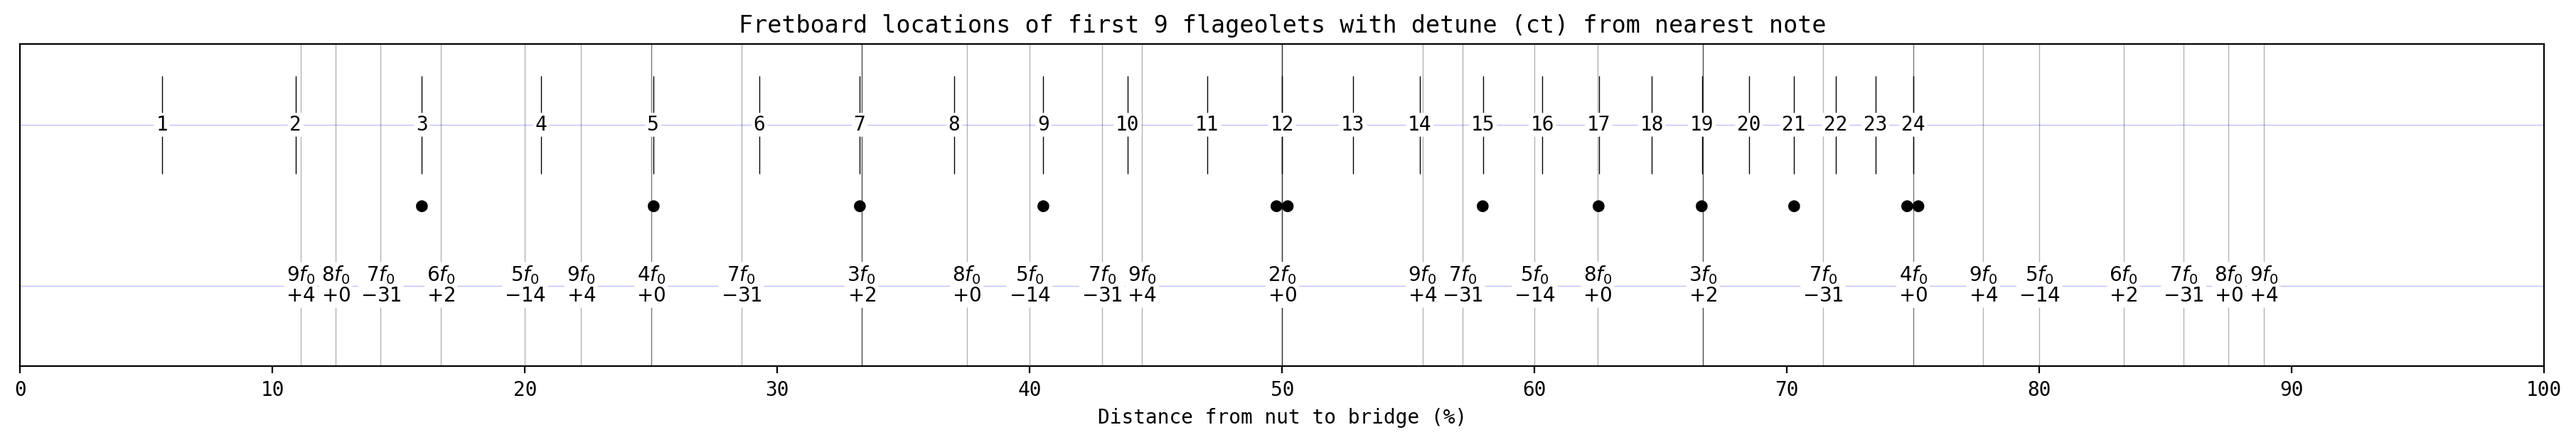
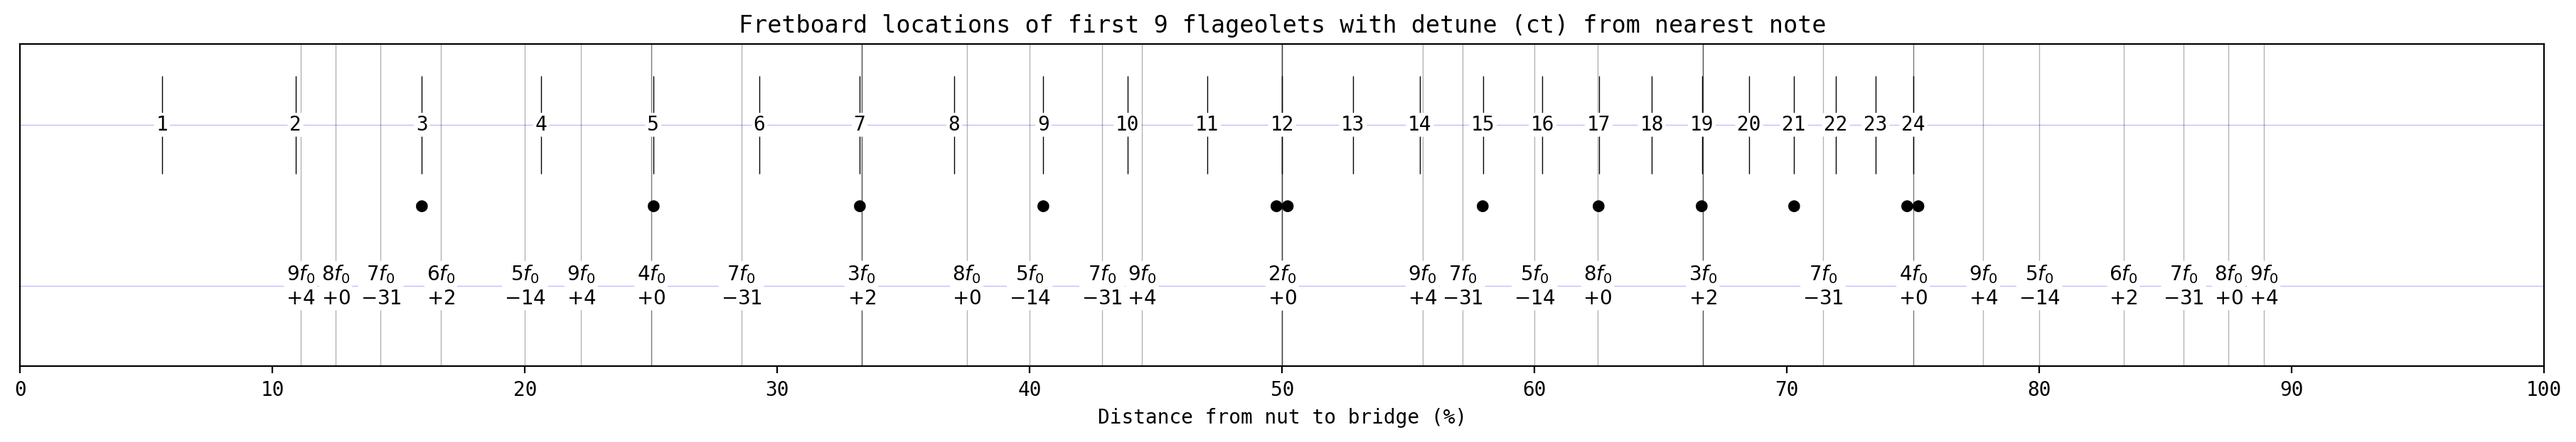
Format, add pitch class table

diff --git a/main.py b/main.py
@@ -3,69 +3,111 @@ import matplotlib.ticker as ticker
 import numpy as np
 import math
 
+PITCH_CLASS_TABLE = ["C", "C#", "D", "D#", "E", "F", "F#", "G", "G#", "A", "A#", "B"]
+
 # Distance from nut to bridge in %.
 scale_length = 100
 # Number of frets to show.
 frets = np.arange(1, 25)
 # Harmonics to show nodes of.
 harmonics = [2, 3, 4, 5, 6, 7, 8, 9]
+# Root note of string.
+root_note = 0
+
 
 def main():
-  plt.rc('font', size=10)
-  plt.rc('font', family="monospace")
+    plt.rc("font", size=10)
+    plt.rc("font", family="monospace")
 
-  _, ax = plt.subplots(figsize=(18, 3), layout="constrained")
+    _, ax = plt.subplots(figsize=(18, 3), layout="constrained")
 
-  # Figure styling.
-  ax.axhline(1, alpha=0.25, color="blue", linewidth=0.5)
-  ax.axhline(0, alpha=0.25, color="blue", linewidth=0.5)
-  ax.set_xlim([0, scale_length])
-  ax.xaxis.set_major_locator(ticker.MultipleLocator(10))
-  ax.set_ylim([-0.5, 1.5])
-  ax.set_xlabel("Distance from nut to bridge (%)")
-  ax.get_yaxis().set_visible(False)
-  bbox_style = dict(facecolor='white', edgecolor='none', boxstyle='round, pad=0.1')
+    # Figure styling.
+    ax.axhline(1, alpha=0.25, color="blue", linewidth=0.5)
+    ax.axhline(0, alpha=0.25, color="blue", linewidth=0.5)
+    ax.set_xlim([0, scale_length])
+    ax.xaxis.set_major_locator(ticker.MultipleLocator(10))
+    ax.set_ylim([-0.5, 1.5])
+    ax.set_xlabel("Distance from nut to bridge (%)")
+    ax.get_yaxis().set_visible(False)
+    bbox_style = dict(facecolor="white", edgecolor="none", boxstyle="round, pad=0.1")
 
-  # Reverse harmonics as multiples are drawn on top of eachother.
-  for harmonic in reversed(harmonics):
-    for numerator in range(1, harmonic):
-      distance = scale_length * numerator / harmonic
-      numSemitones = freqRatioToSemitones(harmonic)
-      # Calculate cent offset from nearest equally tempered note.
-      numCents = 100 * (numSemitones - round(numSemitones))
-      roundedNumCents = round(numCents)
+    # Reverse harmonics as multiples are drawn on top of eachother.
+    for harmonic in reversed(harmonics):
+        for numerator in range(1, harmonic):
+            distance = scale_length * numerator / harmonic
+            num_semitones = freq_ratio_to_semitones(harmonic)
+            # Calculate cent offset from nearest equally tempered note.
+            num_cents = 100 * (num_semitones - round(num_semitones))
+            rounded_num_cents = round(num_cents)
 
-      ax.plot(distance, 0, color="black", marker="|", ms=1000, alpha=0.3, markeredgewidth=0.5)
-      ax.text(distance, 0, rf"${harmonic}f_0$", horizontalalignment="center", verticalalignment="bottom", bbox=bbox_style)
-      ax.text(distance, 0, rf"${roundedNumCents:+}$", horizontalalignment="center", verticalalignment="top", bbox=bbox_style)
+            ax.plot(
+                distance,
+                0,
+                color="black",
+                marker="|",
+                ms=1000,
+                alpha=0.3,
+                markeredgewidth=0.5,
+            )
+            ax.text(
+                distance,
+                0,
+                rf"${harmonic}f_0$" + "\n" + rf"${rounded_num_cents:+}$",
+                horizontalalignment="center",
+                verticalalignment="center",
+                bbox=bbox_style,
+            )
 
-  # Mark frets with a single dot.
-  marked_frets = [3, 5, 7, 9, 15, 17, 19, 21, 27, 29, 31, 33]
-  # Mark octaves with two dots.
-  marked_octaves = [12, 24, 36]
+    # Mark frets with a single dot.
+    marked_frets = [3, 5, 7, 9, 15, 17, 19, 21, 27, 29, 31, 33]
+    # Mark octaves with two dots.
+    marked_octaves = [12, 24, 36]
 
-  for fret in frets:
-    # Use equal temperament for fret spacing calculations.
-    distance = scale_length - scale_length / 2 ** (fret / 12)
-    
-    ax.plot(distance, 1, color="black", marker="|", ms=50, markeredgewidth=0.5)
-    ax.text(distance, 1, f"{fret}", horizontalalignment="center", verticalalignment="center", bbox=bbox_style)
+    for fret in frets:
+        # Use equal temperament for fret spacing calculations.
+        distance = scale_length - scale_length / 2 ** (fret / 12)
 
-    if fret in marked_frets:
-      ax.text(distance, 0.5, f"●", horizontalalignment="center", verticalalignment="center")
+        ax.plot(distance, 1, color="black", marker="|", ms=50, markeredgewidth=0.5)
+        ax.text(
+            distance,
+            1,
+            f"{fret}",
+            horizontalalignment="center",
+            verticalalignment="center",
+            bbox=bbox_style,
+        )
 
-    if fret in marked_octaves:
-      ax.text(distance, 0.5, f"●●", horizontalalignment="center", verticalalignment="center")
+        if fret in marked_frets:
+            ax.text(
+                distance,
+                0.5,
+                f"●",
+                horizontalalignment="center",
+                verticalalignment="center",
+            )
 
-  plt.title("Fretboard locations of first 9 flageolets with detune (ct) from nearest note")
-  plt.savefig("flageolets.png", bbox_inches="tight", dpi=200)
-  plt.show()
+        if fret in marked_octaves:
+            ax.text(
+                distance,
+                0.5,
+                f"●●",
+                horizontalalignment="center",
+                verticalalignment="center",
+            )
 
-def freqRatioToSemitones(freqRatio):
-  """Convert a frequency ratio to tonal distance in semitones."""
-  numSemitones = 12 * math.log(freqRatio, 2)
+    plt.title(
+        "Fretboard locations of first 9 flageolets with detune (ct) from nearest note"
+    )
+    plt.savefig("flageolets.png", bbox_inches="tight", dpi=200)
+    plt.show()
 
-  return numSemitones
+
+def freq_ratio_to_semitones(freq_ratio):
+    """Convert a frequency ratio to tonal distance in semitones."""
+    num_semitones = 12 * math.log(freq_ratio, 2)
+
+    return num_semitones
+
 
 if __name__ == "__main__":
-  main()
+    main()
